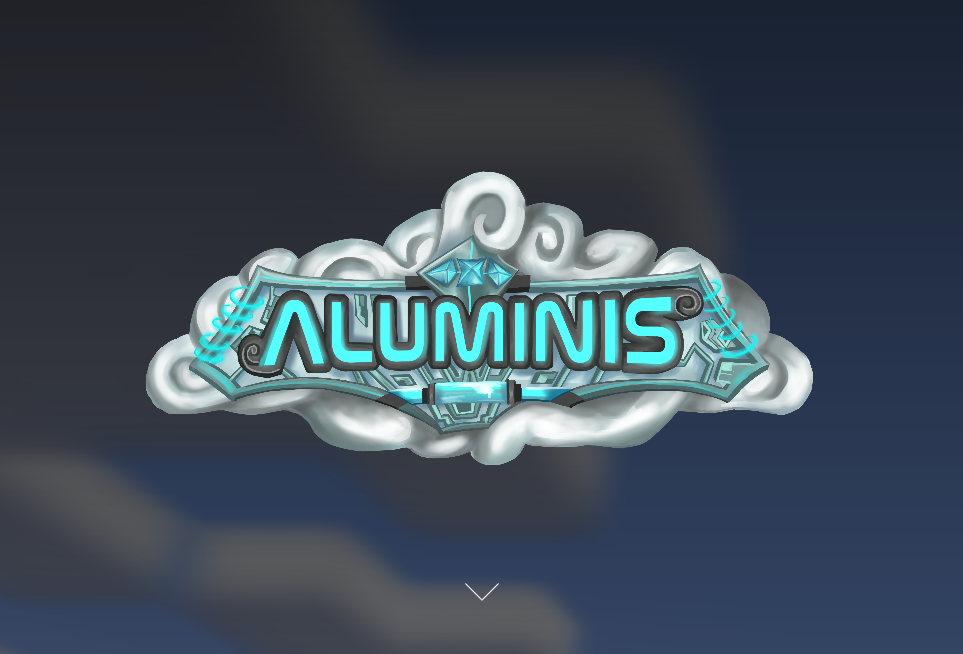
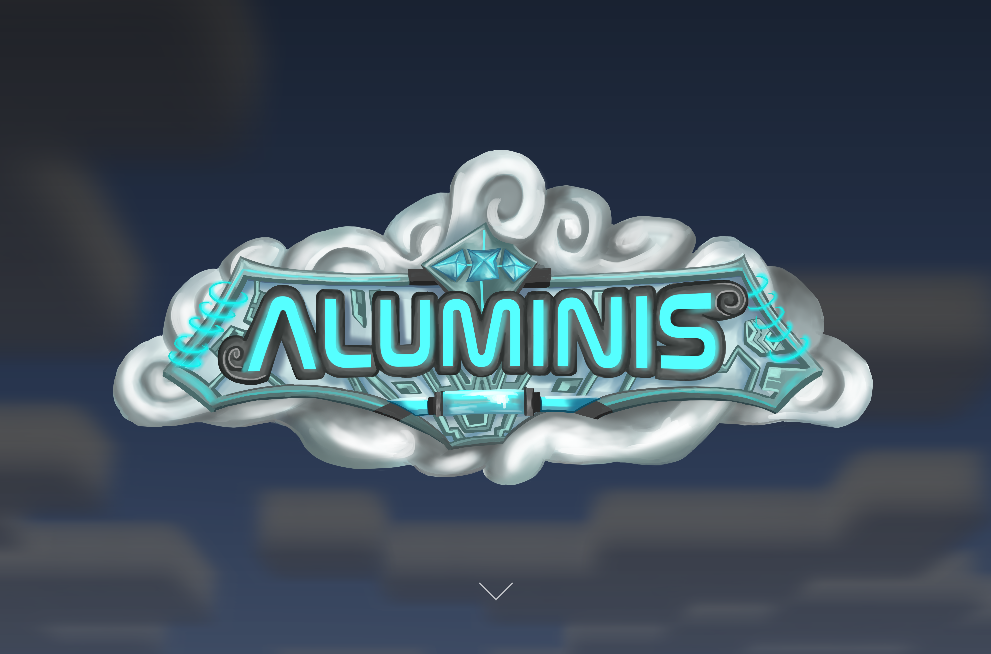
Updated

diff --git a/src/css/styles.css b/src/css/styles.css
@@ -24,11 +24,11 @@ body {
 }
 
 .container1 {
-    background: linear-gradient(rgba(0, 0, 0, 0.8), rgba(0, 0, 0, 0.6)), url('../img/background1.png');
+    background: linear-gradient(rgba(0, 0, 0, 0.8), rgba(0, 0, 0, 0.6)), url('../img/background1.png') no-repeat center center;
 }
 
 .container2 {
-    background: linear-gradient(rgba(0, 0, 0, 0.8), rgba(0, 0, 0, 0.6)), url('../img/background2.png');
+    background: linear-gradient(rgba(0, 0, 0, 0.8), rgba(0, 0, 0, 0.6)), url('../img/background2.png') no-repeat center center;
 }
 
 .logo {
